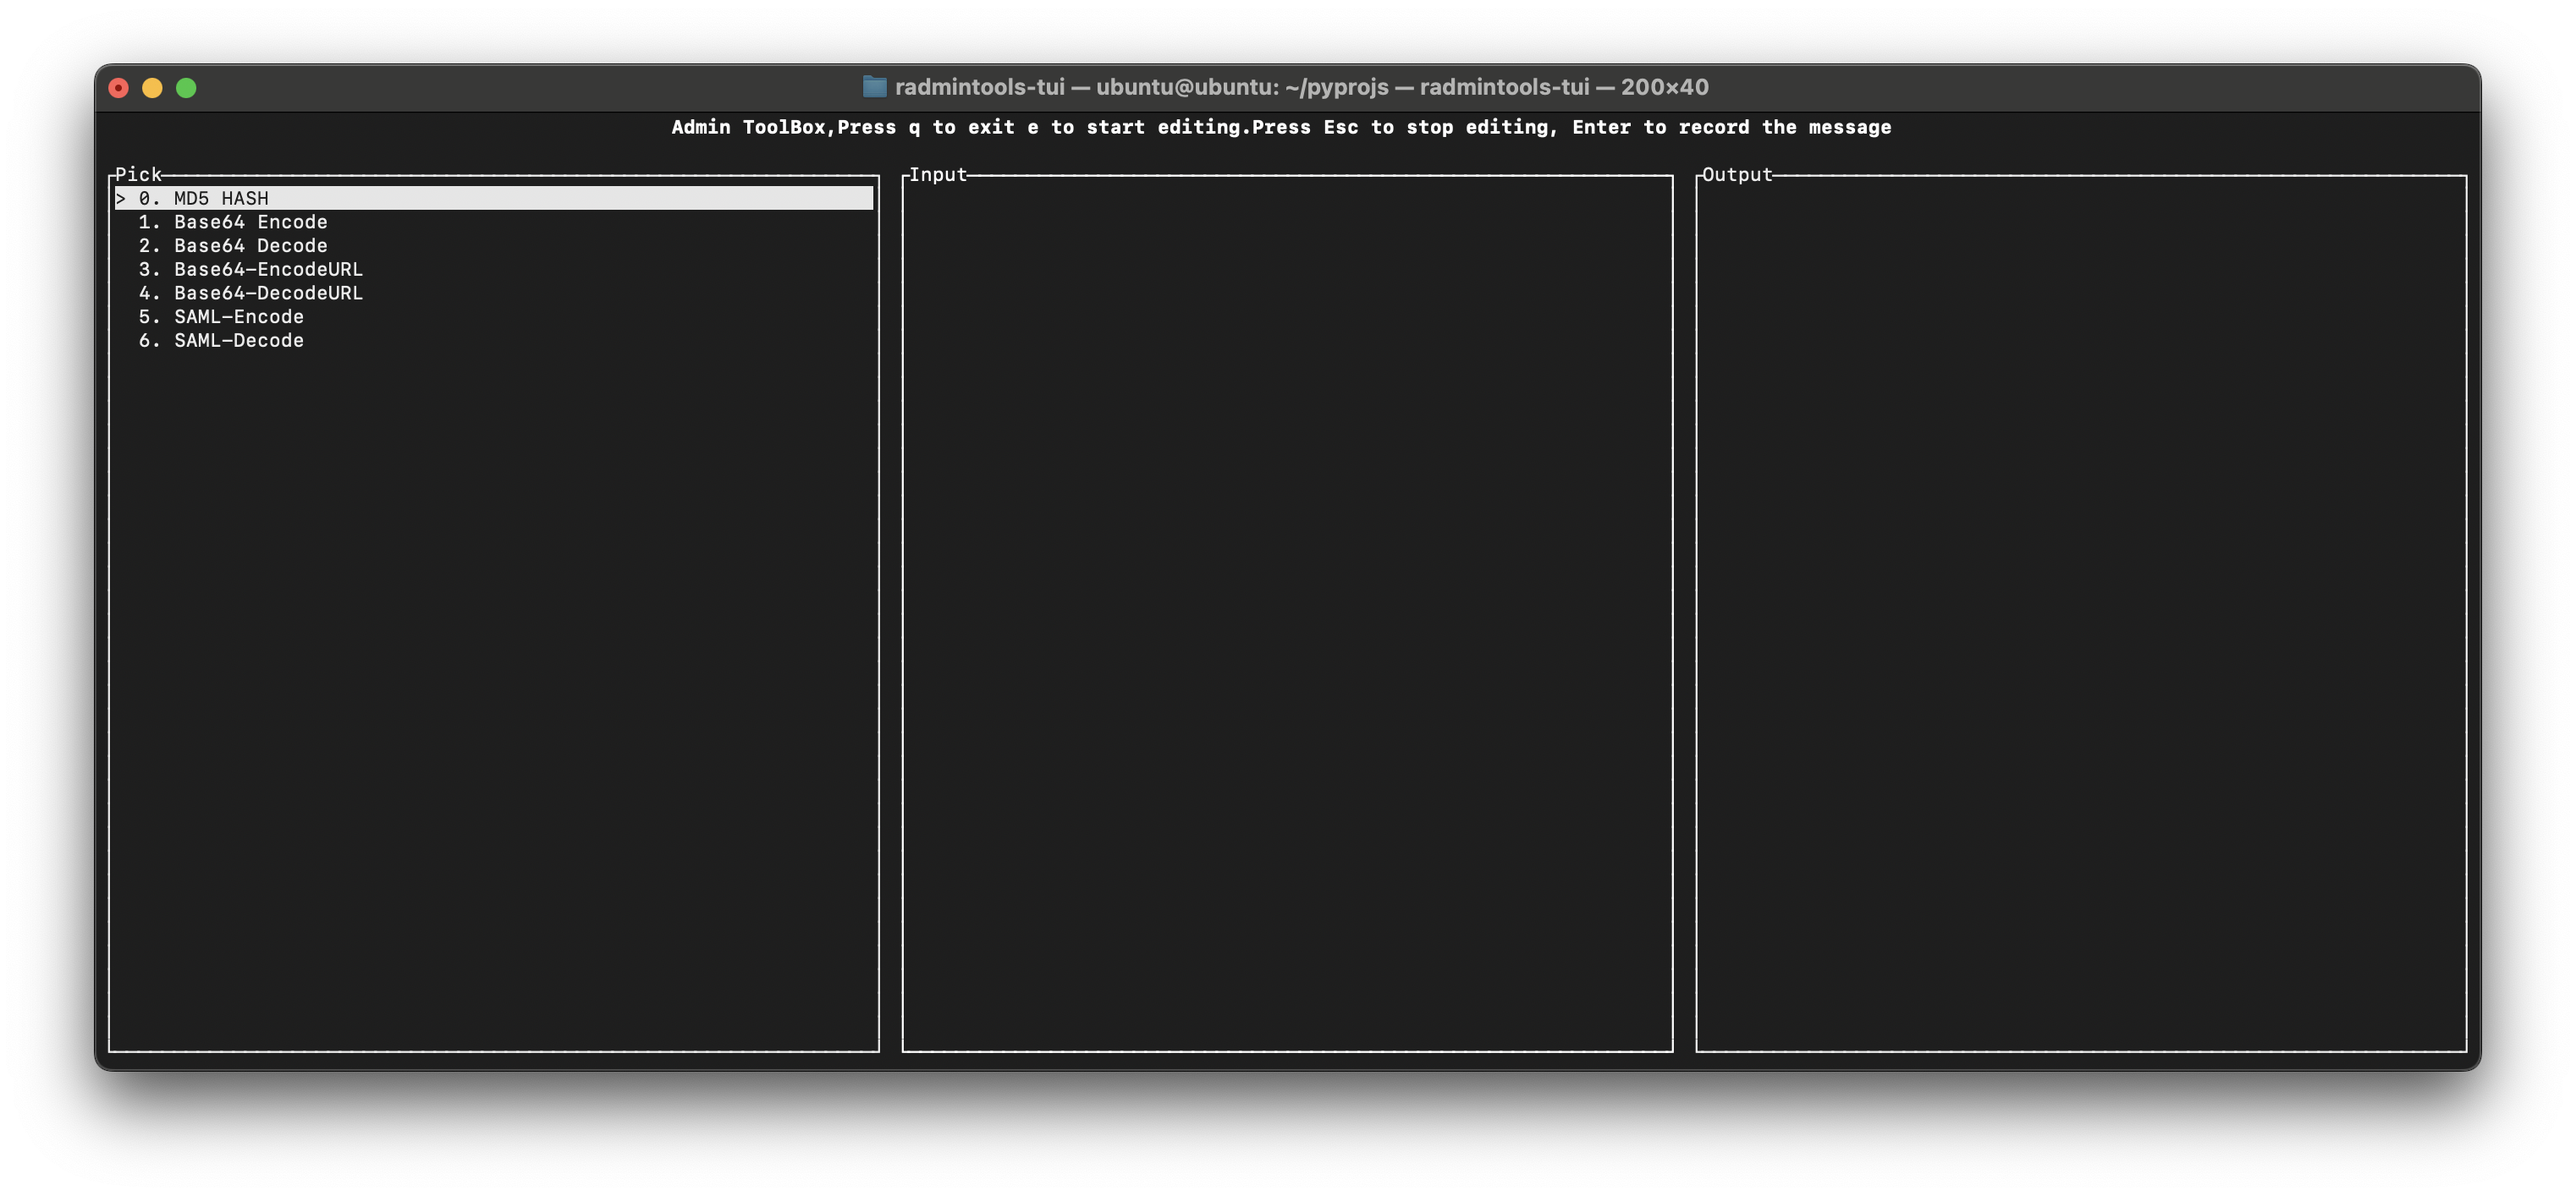
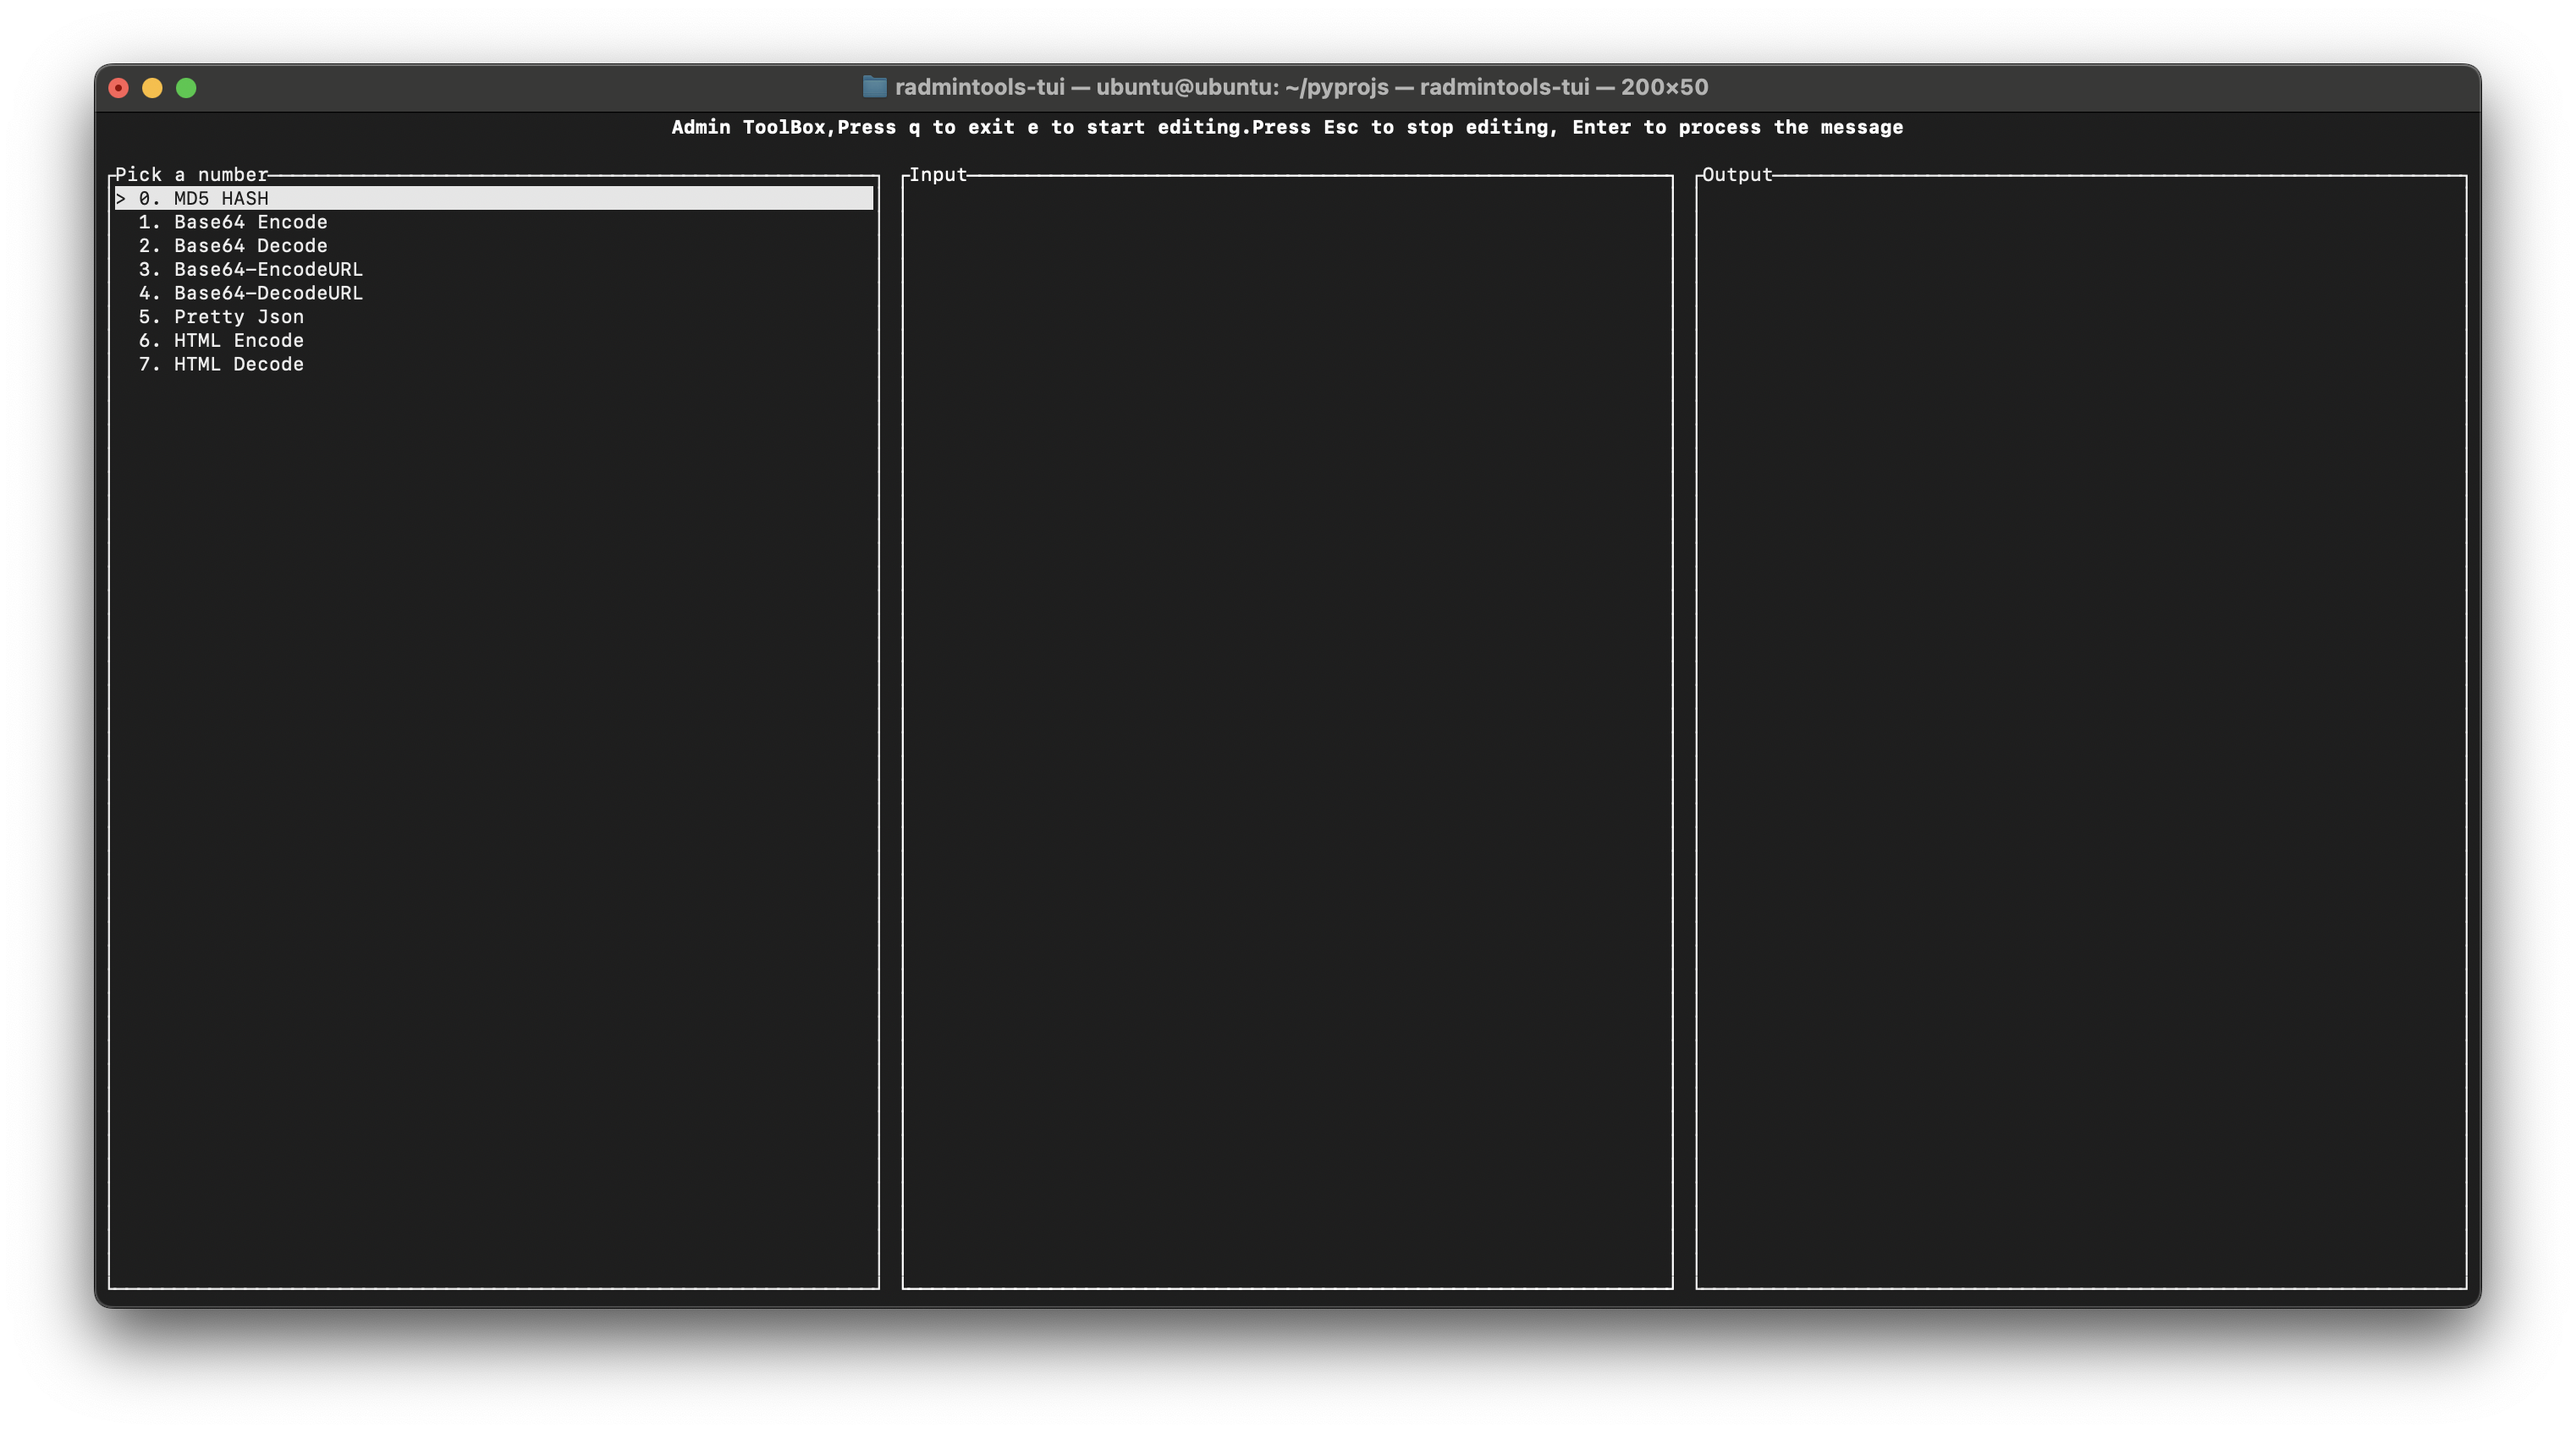
added html encode decode and pretty json updated read me with screenshots refractor code with switch

Changed region(s): [[0.0312, 0.0311, 0.9675, 0.3112], [0.0312, 0.8713, 0.9675, 0.9646]]

diff --git a/src/main.rs b/src/main.rs
@@ -1,6 +1,6 @@
-use std::io;
-
 use crossterm::event::{self, Event, KeyCode};
+use html_escape::{decode_html_entities, encode_text};
+use std::io;
 
 use base64::{decode_config, encode_config, URL_SAFE};
 use md5;
@@ -11,6 +11,8 @@ use ratatui::{
     widgets::{Block, List, ListState, Paragraph, Wrap},
     DefaultTerminal, Frame,
 };
+use serde_json::{to_string_pretty, Value};
+
 use tui_input::backend::crossterm::EventHandler;
 use tui_input::Input;
 
@@ -41,14 +43,15 @@ enum InputMode {
     Editing,
 }
 
-const ITEMS: [&str; 7] = [
+const ITEMS: [&str; 8] = [
     "0. MD5 HASH",
     "1. Base64 Encode",
     "2. Base64 Decode",
     "3. Base64-EncodeURL",
     "4. Base64-DecodeURL",
-    "5. SAML-Encode",
-    "6. SAML-Decode",
+    "5. Pretty Json",
+    "6. HTML Encode",
+    "7. HTML Decode",
 ];
 
 impl App {
@@ -79,13 +82,13 @@ impl App {
             }
         }
     }
-
+    //press e
     fn start_editing(&mut self) {
         // println!("{:?}", list_state.selected());
         self.input.reset();
         self.input_mode = InputMode::Editing
     }
-
+    //press esc
     fn stop_editing(&mut self) {
         self.input.reset();
         self.message.clear();
@@ -93,7 +96,7 @@ impl App {
         self.message = String::new();
         self.input_mode = InputMode::Normal;
     }
-
+    //press enter
     fn push_message(&mut self, list_state: &mut ListState) {
         //println!("{:?}", list_state.selected());
         //self.messages.push(self.input.value().into());
@@ -113,7 +116,7 @@ impl App {
         let [top, main] = vertical.areas(frame.area());
         let [left, middle, right] = horizontal.areas(main);
 
-        let title = Text::from_iter([Span::from("Admin ToolBox,Press q to exit e to start editing.Press Esc to stop editing, Enter to record the message").bold()]);
+        let title = Text::from_iter([Span::from("Admin ToolBox,Press q to exit e to start editing.Press Esc to stop editing, Enter to process the message").bold()]);
         frame.render_widget(title.centered(), top);
 
         // self.render_help_message(frame, left);
@@ -127,7 +130,7 @@ impl App {
     fn render_admin_list(&self, frame: &mut Frame, area: Rect, list_state: &mut ListState) {
         let list = List::new(ITEMS)
             .style(Color::White)
-            .block(Block::bordered().title("Pick"))
+            .block(Block::bordered().title("Pick a number"))
             .highlight_style(Modifier::REVERSED)
             .highlight_symbol("> ");
 
@@ -160,52 +163,7 @@ impl App {
         let message = self.message.to_string();
         let mut process_msg = String::new();
         let mut title_msg = String::from("Output");
-        if !message.is_empty() {
-            if self.id == 0 {
-                process_msg = self.compute_md5(message);
-                title_msg.clear();
-                title_msg.push_str(" MD5");
-
-                self.message.clear();
-            } else if self.id == 1 {
-                process_msg = self.base64_encode(message.as_bytes());
-                title_msg.clear();
-                title_msg.push_str(" base64_encode");
-            } else if self.id == 2 {
-                // Base64 Decode logic (as an example, you could modify or add logic for other options)
-                match self.base64_decode(&message) {
-                    Ok(decoded) => {
-                        process_msg = String::from_utf8_lossy(&decoded).to_string();
-                        title_msg.clear();
-                        title_msg.push_str(" base64_decode");
-                        // Decode and display result
-                    }
-                    Err(_) => {
-                        process_msg = "Error in Base64 decoding".to_string(); // Error message if decoding fails
-                    }
-                }
-                self.message.clear();
-            } else if self.id == 3 {
-                process_msg = self.base64_url_encode(message.as_bytes());
-                title_msg.clear();
-                title_msg.push_str(" base64_url_encode");
-                self.message.clear();
-            } else if self.id == 4 {
-                match self.base64_url_decode(&message) {
-                    Ok(decoded) => {
-                        process_msg = String::from_utf8_lossy(&decoded).to_string();
-                        title_msg.clear();
-                        title_msg.push_str(" base64_url_decode");
-                    }
-                    Err(_) => {
-                        process_msg = "Error in Base64 URL decoding".to_string();
-                    }
-                }
-                self.message.clear();
-            } else {
-                process_msg = message;
-            };
-        };
+        self.process_input(message, &mut process_msg, &mut title_msg);
 
         let out_message = Paragraph::new(process_msg)
             .style(Color::White)
@@ -214,6 +172,85 @@ impl App {
             .wrap(Wrap { trim: true });
         // println!("selected {:?}", self.id);
         frame.render_widget(out_message, area);
+    }
+
+    fn process_input(&mut self, message: String, process_msg: &mut String, title_msg: &mut String) {
+        if !message.is_empty() {
+            match self.id {
+                0 => {
+                    *process_msg = self.compute_md5(message);
+                    title_msg.clear();
+                    title_msg.push_str(" MD5");
+                    self.message.clear();
+                }
+                1 => {
+                    *process_msg = self.base64_encode(message.as_bytes());
+                    title_msg.clear();
+                    title_msg.push_str(" base64_encode");
+                    self.message.clear();
+                }
+                2 => {
+                    // Base64 Decode logic
+                    match self.base64_decode(&message) {
+                        Ok(decoded) => {
+                            *process_msg = String::from_utf8_lossy(&decoded).to_string();
+                            title_msg.clear();
+                            title_msg.push_str(" base64_decode");
+                        }
+                        Err(_) => {
+                            *process_msg = "Error in Base64 decoding".to_string();
+                        }
+                    }
+                    self.message.clear();
+                }
+                3 => {
+                    *process_msg = self.base64_url_encode(message.as_bytes());
+                    title_msg.clear();
+                    title_msg.push_str(" base64_url_encode");
+                    self.message.clear();
+                }
+                4 => {
+                    match self.base64_url_decode(&message) {
+                        Ok(decoded) => {
+                            *process_msg = String::from_utf8_lossy(&decoded).to_string();
+                            title_msg.clear();
+                            title_msg.push_str(" base64_url_decode");
+                        }
+                        Err(_) => {
+                            *process_msg = "Error in Base64 URL decoding".to_string();
+                        }
+                    }
+                    self.message.clear();
+                }
+                5 => {
+                    match self.pretty_json_from_string(&message) {
+                        Ok(pretty_json) => {
+                            *process_msg = pretty_json;
+                        }
+                        Err(_) => {
+                            *process_msg = "Error in JSON parsing".to_string();
+                        }
+                    }
+                    title_msg.clear();
+                    title_msg.push_str(" pretty_json");
+                    self.message.clear();
+                }
+                6 => {
+                    *process_msg = self.encode_html_string(message);
+                    title_msg.clear();
+                    title_msg.push_str(" HTML encode");
+                    self.message.clear();
+                }
+                7 => {
+                    *process_msg = self.decode_html_string(message);
+                    title_msg.push_str(" HTML decode");
+                    self.message.clear();
+                }
+                _ => {
+                    *process_msg = message; // Default case when no matching id
+                }
+            };
+        };
     }
 
     /// Computes the MD5 hash of a string and returns the hash as a hexadecimal string.
@@ -237,5 +274,21 @@ impl App {
     // Base64 URL decoding
     fn base64_url_decode(&self, input: &str) -> Result<Vec<u8>, base64::DecodeError> {
         decode_config(input, URL_SAFE)
+    }
+    //pretty json
+    fn pretty_json_from_string(&self, json_str: &str) -> Result<String, serde_json::Error> {
+        // Parse the input JSON string into a serde_json Value
+        let parsed_json: Value = serde_json::from_str(json_str)?;
+
+        // Convert the parsed JSON to a pretty-printed JSON string and return it
+        to_string_pretty(&parsed_json)
+    }
+    //html encode
+    fn encode_html_string(&self, input: String) -> String {
+        encode_text(&input).to_string()
+    }
+    //html decode
+    fn decode_html_string(&self, input: String) -> String {
+        decode_html_entities(&input).to_string()
     }
 }

diff --git a/README.md b/README.md
@@ -9,3 +9,12 @@ A terminal user interfaces or common admin tools
 
 ## MD5 Hash
 <img src="./images/md5.png" alt="Demo MD5 hashing">
+
+## Pretty Json
+<img src="./images/pretty-json.png" alt="Demo MD5 hashing">
+
+## HTML Encode
+<img src="./images/html-encode.png" alt="Demo MD5 hashing">
+
+## HTML Decode.png
+<img src="./images/html-decode.png" alt="Demo MD5 hashing">
